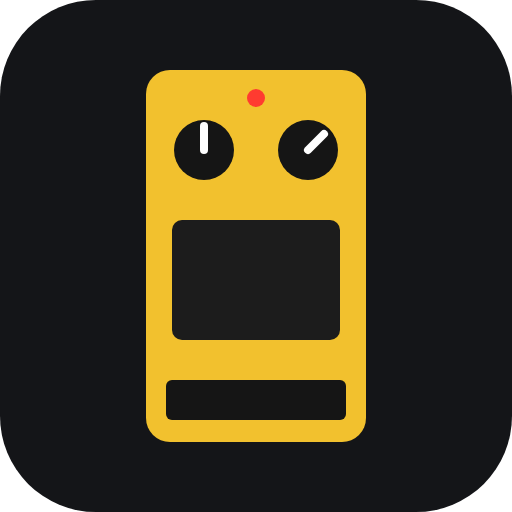
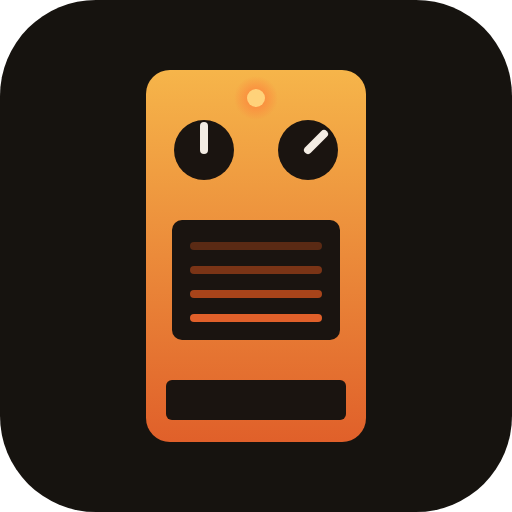
Nome do app: Brasa; área dos controles abre o painel no toque; ✕ e ⠿ com 44 px também no mouse
- Marca Brasa: título, manifest, ícone cor de brasa, ponto aceso no topo, README
- Endereço do repositório e dados salvos (chave pedaleira.v1) continuam os mesmos
- Toque em qualquer ponto da área dos botões de um pedal abre os controles grandes
- Testes: área ≥ 44 px e toque fora dos botões em todos os pedais; botões dos pedais com mouse

Changed region(s): [[0.2812, 0.125, 0.7188, 0.875]]

diff --git a/js/ui/pedal-view.js b/js/ui/pedal-view.js
@@ -132,7 +132,7 @@ function drawPedal(def) {
     el('rect', { x: W - 70, y: 108, width: 52, height: 30, rx: 4, fill: '#111', stroke: '#333' }, foot);
     led = el('circle', { cx: W - 56, cy: 123, r: 6, class: 'led', stroke: '#000' }, foot);
     text(foot, W - 34, 127, 'ON', { fill: '#bbb', 'font-size': 9, 'font-weight': 700 });
-    return { svg, knobs, led, foot, W, H };
+    return { svg, knobs, led, foot, zone: drawZone(svg, look, W), W, H };
   }
 
   if (look.style === 'treadle') {
@@ -147,7 +147,7 @@ function drawPedal(def) {
     el('circle', { cx: W - 26, cy: 228, r: 18, fill: 'transparent' }, foot);
     el('circle', { cx: W - 26, cy: 228, r: 12, fill: '#6d7075', stroke: '#3b3d40', 'stroke-width': 2 }, foot);
     el('circle', { cx: W - 26, cy: 228, r: 8, fill: 'url(#footGrad)', stroke: '#55585c' }, foot);
-    return { svg, knobs, led, foot, W, H };
+    return { svg, knobs, led, foot, zone: drawZone(svg, look, W), W, H };
   }
 
   // Corpo do pedal.
@@ -198,7 +198,20 @@ function drawPedal(def) {
     el('circle', { cx: W / 2, cy: 210, r: 17, fill: '#6d7075', stroke: '#3b3d40', 'stroke-width': 2 }, foot);
     el('circle', { cx: W / 2, cy: 210, r: 12, fill: 'url(#footGrad)', stroke: '#55585c' }, foot);
   }
-  return { svg, knobs, led, foot, display, W, H };
+  return { svg, knobs, led, foot, display, zone: drawZone(svg, look, W, display), W, H };
+}
+
+// Área dos controles: no toque, um toque em qualquer ponto dela (inclusive entre os botões) abre o painel
+// com os controles em tamanho de dedo. Fica atrás dos botões, que continuam girando ao arrastar.
+const ZONES = { compact: [4, 18, 58], stomp: [4, 18, 58], amp: [12, 14, 78] };
+function drawZone(svg, look, W, display) {
+  let x0, y0, h, x1;
+  if (look.style === 'treadle') [x0, y0, x1, h] = [6, 194, W - 50, 46];
+  else if (display) [x0, y0, x1, h] = [4, 14, W - 4, 78]; // afinador: o visor e as duas chaves
+  else { [x0, y0, h] = ZONES[look.style]; x1 = W - x0; if (look.style !== 'amp' && svg.querySelector('.slider')) h = 76; }
+  const zone = el('rect', { x: x0, y: y0, width: x1 - x0, height: h, class: 'knob-zone', fill: 'transparent' });
+  svg.insertBefore(zone, svg.querySelector('.knob'));
+  return zone;
 }
 
 // Visor do afinador: 11 LEDs (centro verde = afinado) e o nome da nota.
@@ -235,7 +248,7 @@ export function pedalView(block, cb) {
   const root = document.createElement('div');
   root.className = `pedal ${def.look.style}`;
   root.dataset.uid = block.uid;
-  const { svg, knobs, led, foot, display } = drawPedal(def);
+  const { svg, knobs, led, foot, display, zone } = drawPedal(def);
   root.append(svg);
 
   const caption = document.createElement('div');
@@ -364,6 +377,14 @@ export function pedalView(block, cb) {
       e.preventDefault();
     });
   }
+
+  let tap = null;
+  zone.addEventListener('pointerdown', e => { tap = e.pointerType === 'touch' ? { x: e.clientX, y: e.clientY } : null; });
+  zone.addEventListener('pointerup', e => {
+    if (tap && Math.hypot(e.clientX - tap.x, e.clientY - tap.y) < 10) openKnobSheet(def, block, setters, def.controls[0].id);
+    tap = null;
+  });
+  zone.addEventListener('pointercancel', () => { tap = null; });
 
   update();
   const num = document.createElement('span');

diff --git a/css/app.css b/css/app.css
@@ -6,7 +6,7 @@
 /* Escuro de propósito: palco e quarto com pouca luz. */
 :root {
   --bg: #141518; --panel: #1d1f23; --line: #2e3238; --text: #ece9e4; --muted: #9aa1a9;
-  --accent: #f0a23b; --on-accent: #1a1205; --ok: #5cc98a; --bad: #e5604f;
+  --accent: #f0a23b; --ember-deep: #e0602a; --ember-hot: #ffd27a; --on-accent: #1a1205; --ok: #5cc98a; --bad: #e5604f;
   --board: #26282c; --rail: #34373c; --cable: #111;
   --stage-bg: #0b0c0e; --toast-bg: #2b2e33; --chip-bg: #2b2410; --chip-line: #6b5420;
   /* LEDs dos pedais */
@@ -45,7 +45,13 @@ button:disabled { opacity: .6; cursor: wait; }
   position: sticky; top: 0; z-index: 5;
 }
 h1 { margin: 0; font-size: 22px; font-weight: 800; font-stretch: 125%; letter-spacing: -.01em; }
-h1 span { color: var(--accent); }
+/* Marca: um ponto aceso, como LED de pedal ou brasa de válvula. */
+h1 { display: flex; align-items: center; gap: 8px; }
+h1 .ember {
+  width: 12px; height: 12px; border-radius: 50%; flex: none;
+  background: radial-gradient(circle at 40% 35%, var(--ember-hot), var(--accent) 55%, var(--ember-deep));
+  box-shadow: 0 0 10px color-mix(in oklch, var(--accent) 70%, transparent);
+}
 .io { display: flex; gap: 8px; min-width: 0; }
 .io select { flex: 1; min-width: 0; max-width: 340px; }
 .levels { display: flex; gap: 14px; align-items: center; font-size: 13px; color: var(--muted); }
@@ -78,7 +84,6 @@ kbd { font: 12px ui-monospace, monospace; border: 1px solid var(--line); border-
   button, select, .presets input { min-height: var(--touch); }
   #presetPrev, #presetNext { min-width: var(--touch); }
   .master input { height: var(--touch); }
-  .tools button { min-width: var(--touch); }
 }
 .more-btn { display: none; }
 @media (max-width: 760px) {
@@ -183,7 +188,7 @@ main { padding: 16px 0 32px; }
 .tools { display: flex; gap: 6px; }
 /* Tirar fica afastado do resto: no toque, encostar no ⠿ não pode remover o pedal. */
 .tools .remove { margin-left: 10px; }
-.tools button { padding: 4px 10px; font-size: 12px; border-radius: 6px; background: var(--panel); }
+.tools button { padding: 4px 10px; font-size: 12px; border-radius: 6px; background: var(--panel); min-width: var(--touch); min-height: var(--touch); }
 .tools .grip { cursor: grab; touch-action: none; font-size: 15px; line-height: 1; padding: 4px 10px; }
 .tools .file-btn.has { border-color: var(--accent); color: var(--accent); }
 .tools .tap-btn { font-weight: 700; letter-spacing: .05em; }

diff --git a/index.html b/index.html
@@ -4,8 +4,8 @@
 <meta charset="utf-8">
 <meta name="viewport" content="width=device-width, initial-scale=1, viewport-fit=cover">
 <meta name="theme-color" content="#141518">
-<meta name="description" content="Monte sua pedaleira de guitarra no navegador: pedais desenhados como os reais, com som modelado e capturas NAM.">
-<title>Pedaleira</title>
+<meta name="description" content="Brasa: sua pedaleira de guitarra no navegador. pedais desenhados como os reais, com som modelado e capturas NAM.">
+<title>Brasa</title>
 <link rel="manifest" href="manifest.webmanifest">
 <link rel="icon" href="icons/icon.svg" type="image/svg+xml">
 <link rel="apple-touch-icon" href="icons/icon-180.png">
@@ -14,11 +14,11 @@
 </head>
 <body>
 <header class="top">
-  <h1>Pedal<span>eira</span></h1>
+  <h1><span class="ember" aria-hidden="true"></span>Brasa</h1>
   <div class="io">
     <select id="device" aria-label="Entrada de áudio"><option value="">Entrada padrão</option></select>
     <button id="power" class="primary" aria-pressed="false">Ligar</button>
-    <button id="install" title="Instalar a Pedaleira como app (abre sem o navegador, funciona sem internet)" hidden>Instalar</button>
+    <button id="install" title="Instalar a Brasa como app (abre sem o navegador, funciona sem internet)" hidden>Instalar</button>
   </div>
   <div class="levels">
     <div class="meter" id="meter" title="Nível da entrada"><div></div></div>

diff --git a/js/app.js b/js/app.js
@@ -54,7 +54,7 @@ openSharedLink();
 // Instalar como app: Chrome/Edge/Android oferecem o evento; no iPhone, o caminho é pelo menu Compartilhar.
 let installPrompt = null;
 addEventListener('beforeinstallprompt', e => { e.preventDefault(); installPrompt = e; $('install').hidden = false; });
-addEventListener('appinstalled', () => { $('install').hidden = true; status('Pedaleira instalada como app.'); });
+addEventListener('appinstalled', () => { $('install').hidden = true; status('Brasa instalada como app.'); });
 const standalone = matchMedia('(display-mode: standalone)').matches || navigator.standalone;
 const iOS = /iPhone|iPad|iPod/.test(navigator.userAgent) || (navigator.platform === 'MacIntel' && navigator.maxTouchPoints > 1);
 if (iOS && !standalone) $('install').hidden = false;
@@ -69,7 +69,7 @@ $('install').onclick = async () => {
 
 // Navegador sem AudioWorklet (muito antigo): avisa logo, antes de tentar ligar.
 if (!window.AudioWorkletNode || !navigator.mediaDevices?.getUserMedia)
-  status('Este navegador não tem o que a Pedaleira precisa (AudioWorklet e entrada de áudio). Use Chrome, Edge, Firefox ou Safari atualizados.', true);
+  status('Este navegador não tem o que a Brasa precisa (AudioWorklet e entrada de áudio). Use Chrome, Edge, Firefox ou Safari atualizados.', true);
 persist();
 
 $('intro').hidden = state.introDone;

diff --git a/js/presets.js b/js/presets.js
@@ -366,7 +366,7 @@ export async function exportPresets() {
   const blob = new Blob([JSON.stringify(doc)], { type: 'application/json' });
   const a = document.createElement('a');
   a.href = URL.createObjectURL(blob);
-  a.download = `pedaleira-presets-${new Date().toISOString().slice(0, 10)}.json`;
+  a.download = `brasa-presets-${new Date().toISOString().slice(0, 10)}.json`;
   document.body.append(a);
   a.click();
   a.remove();
@@ -381,7 +381,7 @@ export async function importPresets(file) {
     doc = JSON.parse(await file.text());
     if (doc?.app !== 'pedaleira' || !Array.isArray(doc.presets)) throw new Error();
   } catch {
-    status(`${file.name} não é um arquivo de presets da Pedaleira.`, true);
+    status(`${file.name} não é um arquivo de presets da Brasa.`, true);
     return;
   }
   for (const [key, f] of Object.entries(doc.files || {}))

diff --git a/sw.js b/sw.js
@@ -1,5 +1,5 @@
 // Service worker: rede primeiro (assim você sempre recebe a versão nova), cache quando estiver offline.
-const CACHE = 'pedaleira-v12';
+const CACHE = 'pedaleira-v13';
 const SHELL = [
   './', 'index.html', 'css/app.css', 'fonts/archivo-latin.woff2', 'manifest.webmanifest', 'icons/icon.svg', 'icons/icon-192.png',
   'js/app.js', 'js/core.js', 'js/board.js', 'js/power.js', 'js/presets.js', 'js/scenes.js', 'js/control.js', 'js/stage.js', 'js/store.js', 'js/midi.js', 'js/audio/engine.js', 'js/audio/reverb-ir.js', 'js/audio/pitch.js', 'js/audio/dynamics.js', 'js/audio/dsp-worklet.js', 'js/ui/pedal-view.js',

diff --git a/README.md b/README.md
@@ -1,6 +1,6 @@
-# Pedaleira
+# Brasa
 
-Monte uma pedaleira de guitarra no navegador. Cada pedal é desenhado como o real e tem o som modelado nele.
+Sua pedaleira de guitarra no navegador. Cada pedal é desenhado como o real e tem o som modelado nele.
 Funciona no PC, no Android e no iPhone (é um PWA: pode ser instalado pela opção "Adicionar à tela inicial").
 
 **Pedais** (19, na ordem em que costumam ficar na pedaleira)
